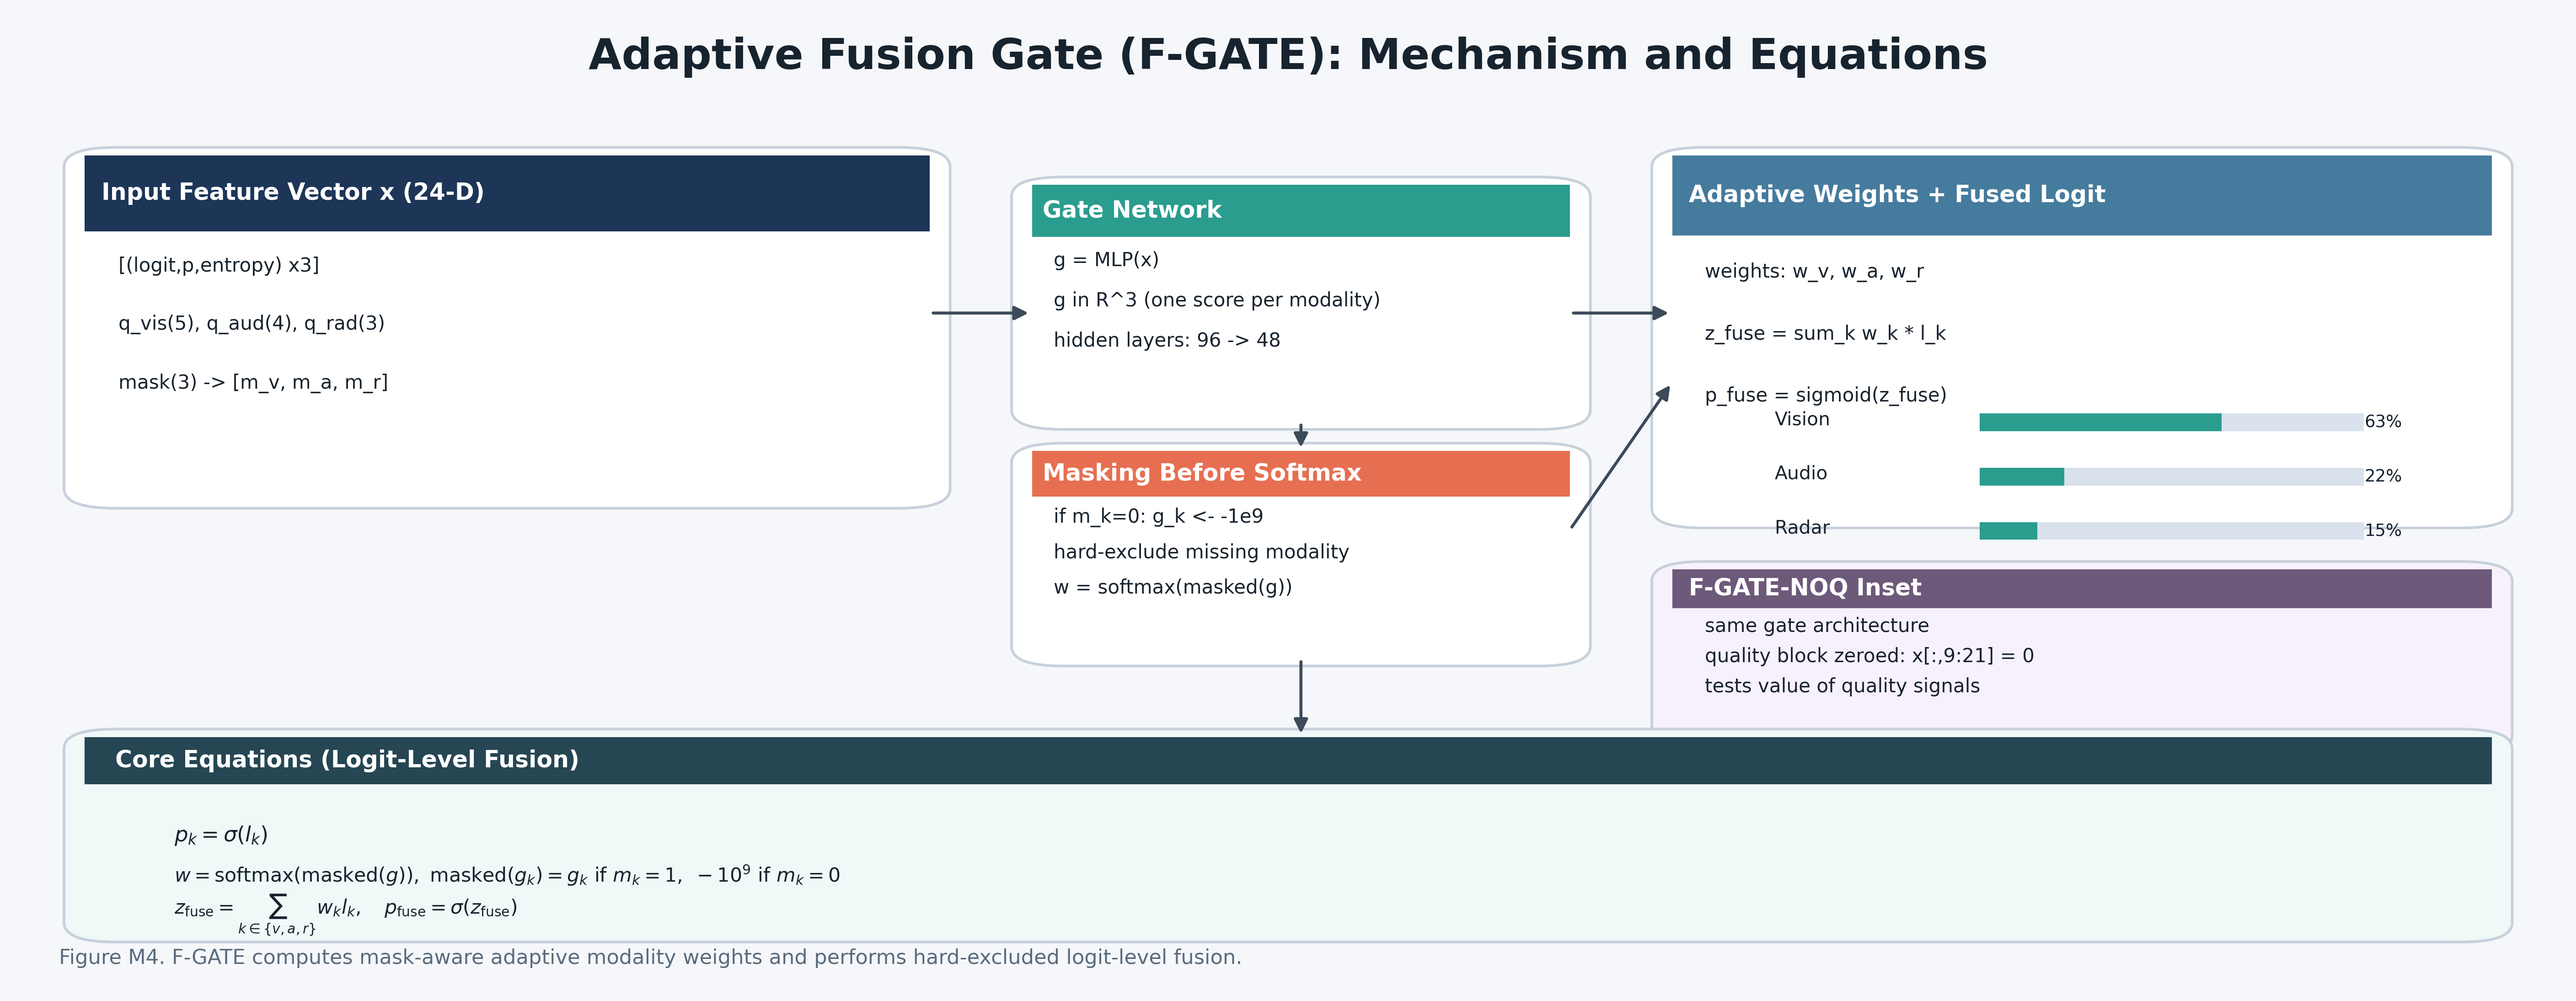
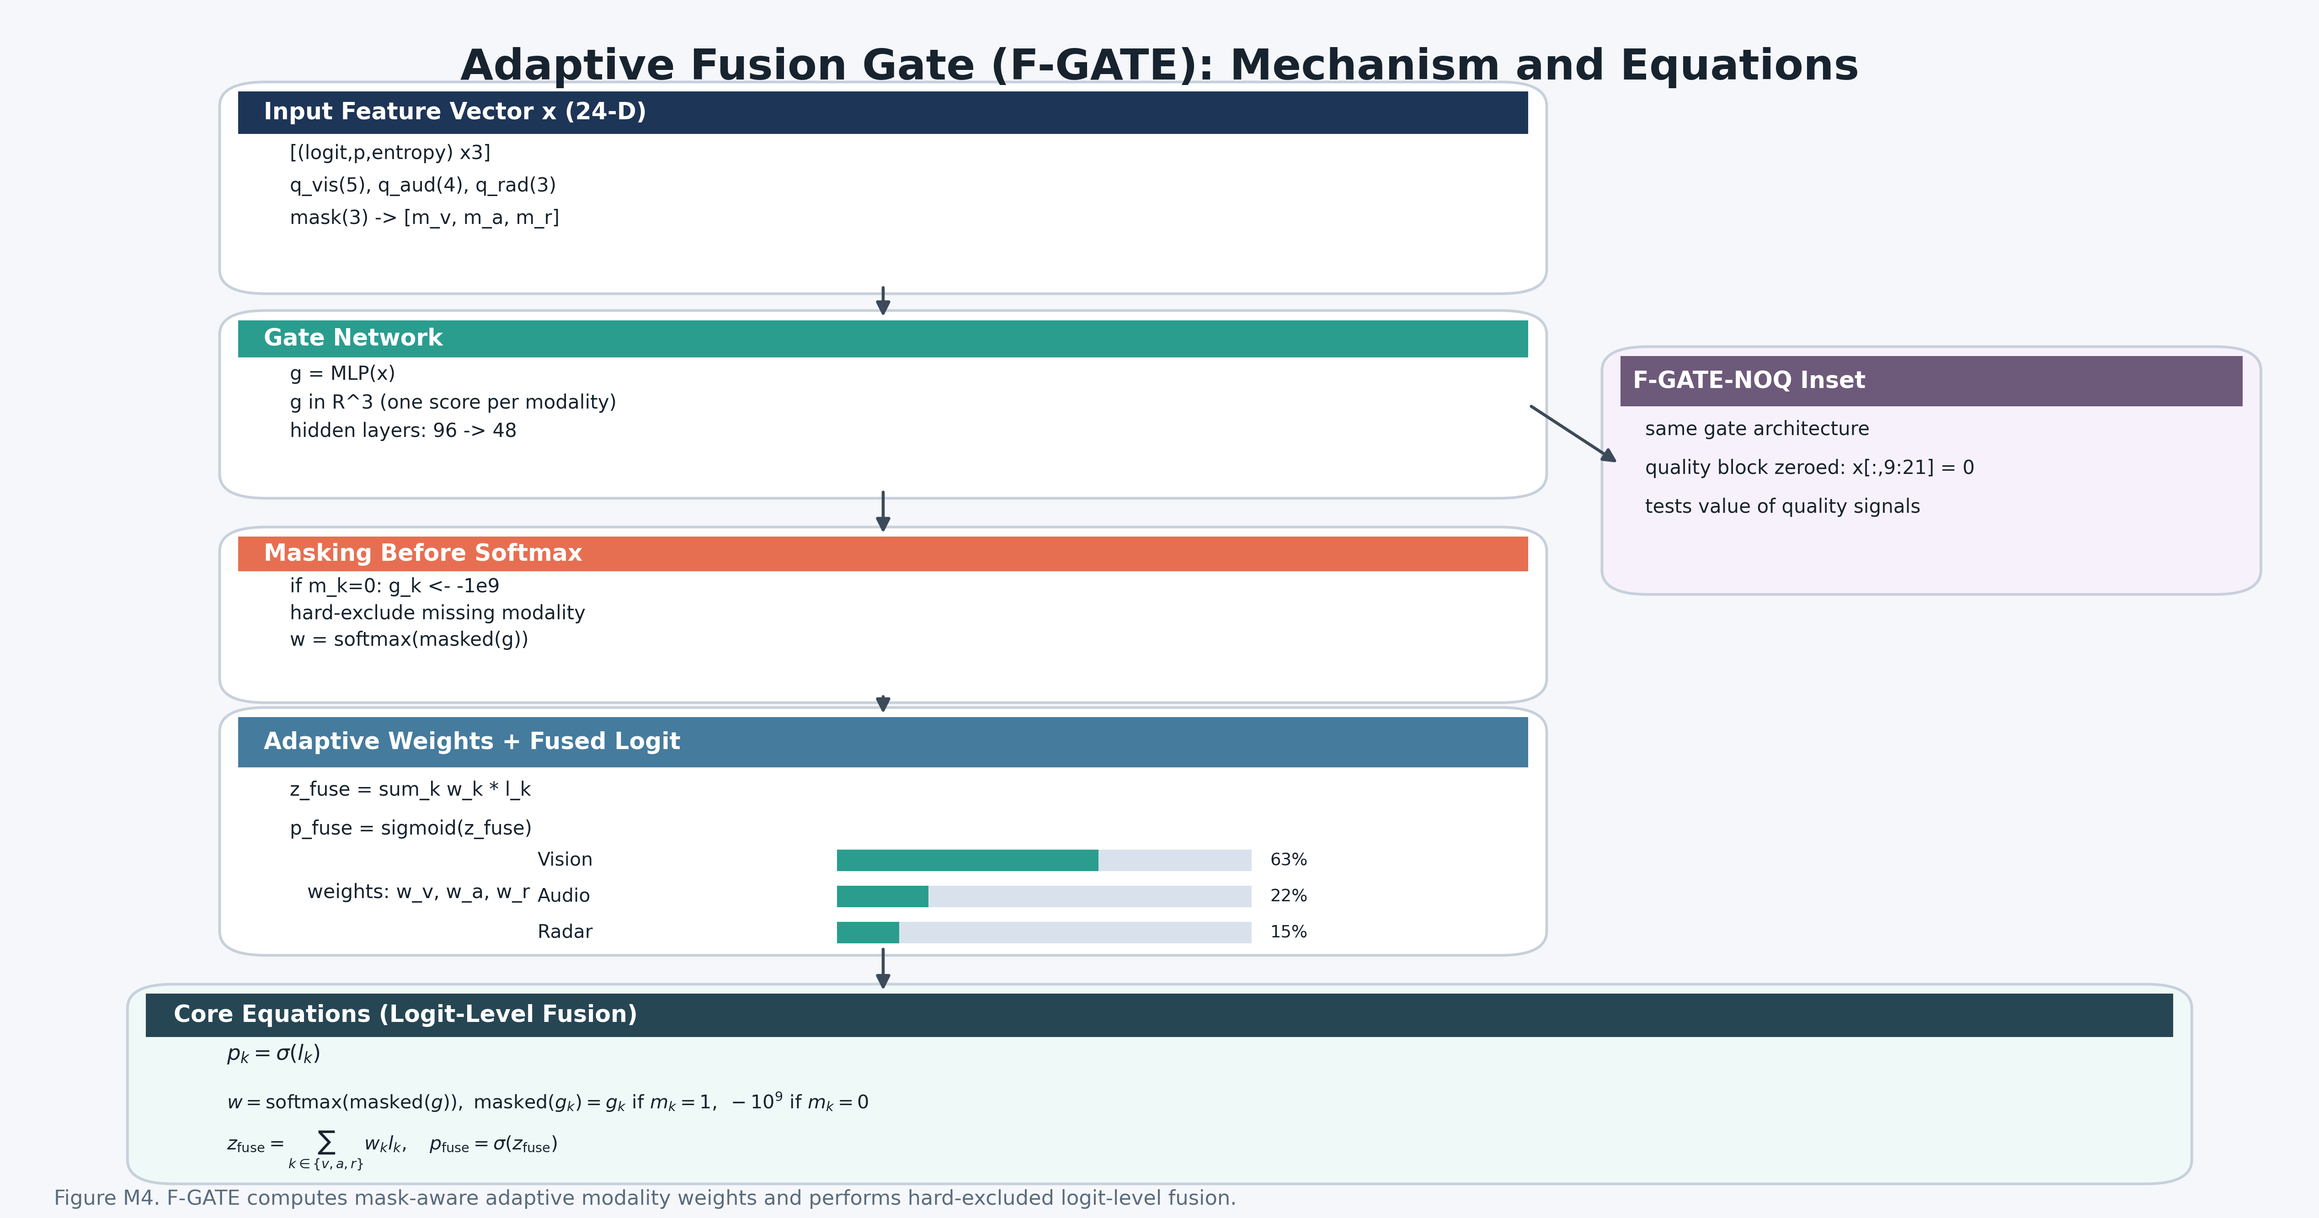
Convert M4 to vertical flow layout

diff --git a/tools/make_methodology_assets.py b/tools/make_methodology_assets.py
@@ -649,7 +649,7 @@ def make_m3_unimodal_cards(out_path: Path) -> list[str]:
 
 
 def make_m4_fusion_gate(out_path: Path) -> list[str]:
-    fig = plt.figure(figsize=(20, 7.7), dpi=280, facecolor=BG)
+    fig = plt.figure(figsize=(18, 9.4), dpi=280, facecolor=BG)
     ax = fig.add_axes([0, 0, 1, 1], facecolor=BG)
     ax.axis("off")
     ax.set_xlim(0, 1)
@@ -657,12 +657,15 @@ def make_m4_fusion_gate(out_path: Path) -> list[str]:
 
     ax.text(0.5, 0.95, "Adaptive Fusion Gate (F-GATE): Mechanism and Equations", ha="center", va="center", fontsize=24, fontweight="bold", color=TEXT_DARK)
 
+    main_x = 0.10
+    main_w = 0.56
+
     draw_stage_box(
         ax,
-        0.03,
-        0.50,
-        0.33,
-        0.35,
+        main_x,
+        0.77,
+        main_w,
+        0.16,
         "Input Feature Vector x (24-D)",
         [
             "[(logit,p,entropy) x3]",
@@ -674,10 +677,10 @@ def make_m4_fusion_gate(out_path: Path) -> list[str]:
 
     draw_stage_box(
         ax,
-        0.40,
-        0.58,
-        0.21,
-        0.24,
+        main_x,
+        0.60,
+        main_w,
+        0.14,
         "Gate Network",
         [
             "g = MLP(x)",
@@ -688,10 +691,10 @@ def make_m4_fusion_gate(out_path: Path) -> list[str]:
     )
     draw_stage_box(
         ax,
-        0.40,
-        0.34,
-        0.21,
-        0.21,
+        main_x,
+        0.43,
+        main_w,
+        0.13,
         "Masking Before Softmax",
         [
             "if m_k=0: g_k <- -1e9",
@@ -702,13 +705,12 @@ def make_m4_fusion_gate(out_path: Path) -> list[str]:
     )
     draw_stage_box(
         ax,
-        0.65,
-        0.48,
-        0.32,
-        0.37,
+        main_x,
+        0.22,
+        main_w,
+        0.19,
         "Adaptive Weights + Fused Logit",
         [
-            "weights: w_v, w_a, w_r",
             "z_fuse = sum_k w_k * l_k",
             "p_fuse = sigmoid(z_fuse)",
         ],
@@ -716,21 +718,22 @@ def make_m4_fusion_gate(out_path: Path) -> list[str]:
     )
     labels = ["Vision", "Audio", "Radar"]
     vals = [0.63, 0.22, 0.15]
+    ax.text(main_x + 0.03, 0.264, "weights: w_v, w_a, w_r", fontsize=11.0, color=TEXT_DARK, ha="left", va="center")
     for i, (lab, val) in enumerate(zip(labels, vals)):
-        y = 0.57 - i * 0.055
-        bar_x = 0.77
-        bar_w = 0.15
-        ax.text(0.69, y + 0.012, lab, fontsize=10.5, color=TEXT_DARK, ha="left", va="center")
+        y = 0.282 - i * 0.030
+        bar_x = main_x + 0.26
+        bar_w = 0.18
+        ax.text(main_x + 0.13, y + 0.009, lab, fontsize=10.5, color=TEXT_DARK, ha="left", va="center")
         ax.add_patch(Rectangle((bar_x, y), bar_w, 0.018, facecolor="#D9E2EC", edgecolor="none"))
         ax.add_patch(Rectangle((bar_x, y), bar_w * val, 0.018, facecolor="#2A9D8F", edgecolor="none"))
-        ax.text(0.935, y + 0.009, f"{100.0 * val:.0f}%", fontsize=9.5, color=TEXT_DARK, ha="right", va="center")
+        ax.text(bar_x + bar_w + 0.008, y + 0.009, f"{100.0 * val:.0f}%", fontsize=9.5, color=TEXT_DARK, ha="left", va="center")
 
     draw_stage_box(
         ax,
-        0.65,
-        0.25,
-        0.32,
-        0.18,
+        0.70,
+        0.52,
+        0.27,
+        0.19,
         "F-GATE-NOQ Inset",
         [
             "same gate architecture",
@@ -741,7 +744,7 @@ def make_m4_fusion_gate(out_path: Path) -> list[str]:
         body_color="#F7F1FB",
     )
 
-    eq_x, eq_y, eq_w, eq_h = 0.03, 0.06, 0.94, 0.20
+    eq_x, eq_y, eq_w, eq_h = 0.06, 0.03, 0.88, 0.15
     eq_box = FancyBboxPatch(
         (eq_x, eq_y),
         eq_w,
@@ -774,7 +777,7 @@ def make_m4_fusion_gate(out_path: Path) -> list[str]:
         eq_y + 0.060,
         r"$w = \mathrm{softmax}(\mathrm{masked}(g)),\ \mathrm{masked}(g_k)=g_k\ \mathrm{if}\ m_k=1,\ -10^9\ \mathrm{if}\ m_k=0$",
         transform=ax.transAxes,
-        fontsize=11.0,
+        fontsize=10.6,
         color=TEXT_DARK,
         ha="left",
         va="center",
@@ -784,21 +787,24 @@ def make_m4_fusion_gate(out_path: Path) -> list[str]:
         eq_y + 0.020,
         r"$z_{\mathrm{fuse}} = \sum_{k \in \{v,a,r\}} w_k l_k,\quad p_{\mathrm{fuse}}=\sigma(z_{\mathrm{fuse}})$",
         transform=ax.transAxes,
-        fontsize=11.0,
+        fontsize=10.6,
         color=TEXT_DARK,
         ha="left",
         va="center",
     )
 
-    add_arrow(ax, (0.36, 0.69), (0.40, 0.69))
-    add_arrow(ax, (0.505, 0.58), (0.505, 0.55))
-    add_arrow(ax, (0.61, 0.69), (0.65, 0.69))
-    add_arrow(ax, (0.61, 0.47), (0.65, 0.62))
-    add_arrow(ax, (0.505, 0.34), (0.505, 0.26))
+    # Primary vertical flow.
+    cx = main_x + 0.5 * main_w
+    add_arrow(ax, (cx, 0.77), (cx, 0.74))
+    add_arrow(ax, (cx, 0.60), (cx, 0.56))
+    add_arrow(ax, (cx, 0.43), (cx, 0.41))
+    add_arrow(ax, (cx, 0.22), (cx, 0.18))
+    # Optional side inset reference.
+    add_arrow(ax, (main_x + main_w, 0.67), (0.70, 0.62))
 
     ax.text(
         0.02,
-        0.03,
+        0.005,
         "Figure M4. F-GATE computes mask-aware adaptive modality weights and performs hard-excluded logit-level fusion.",
         ha="left",
         fontsize=11.5,
